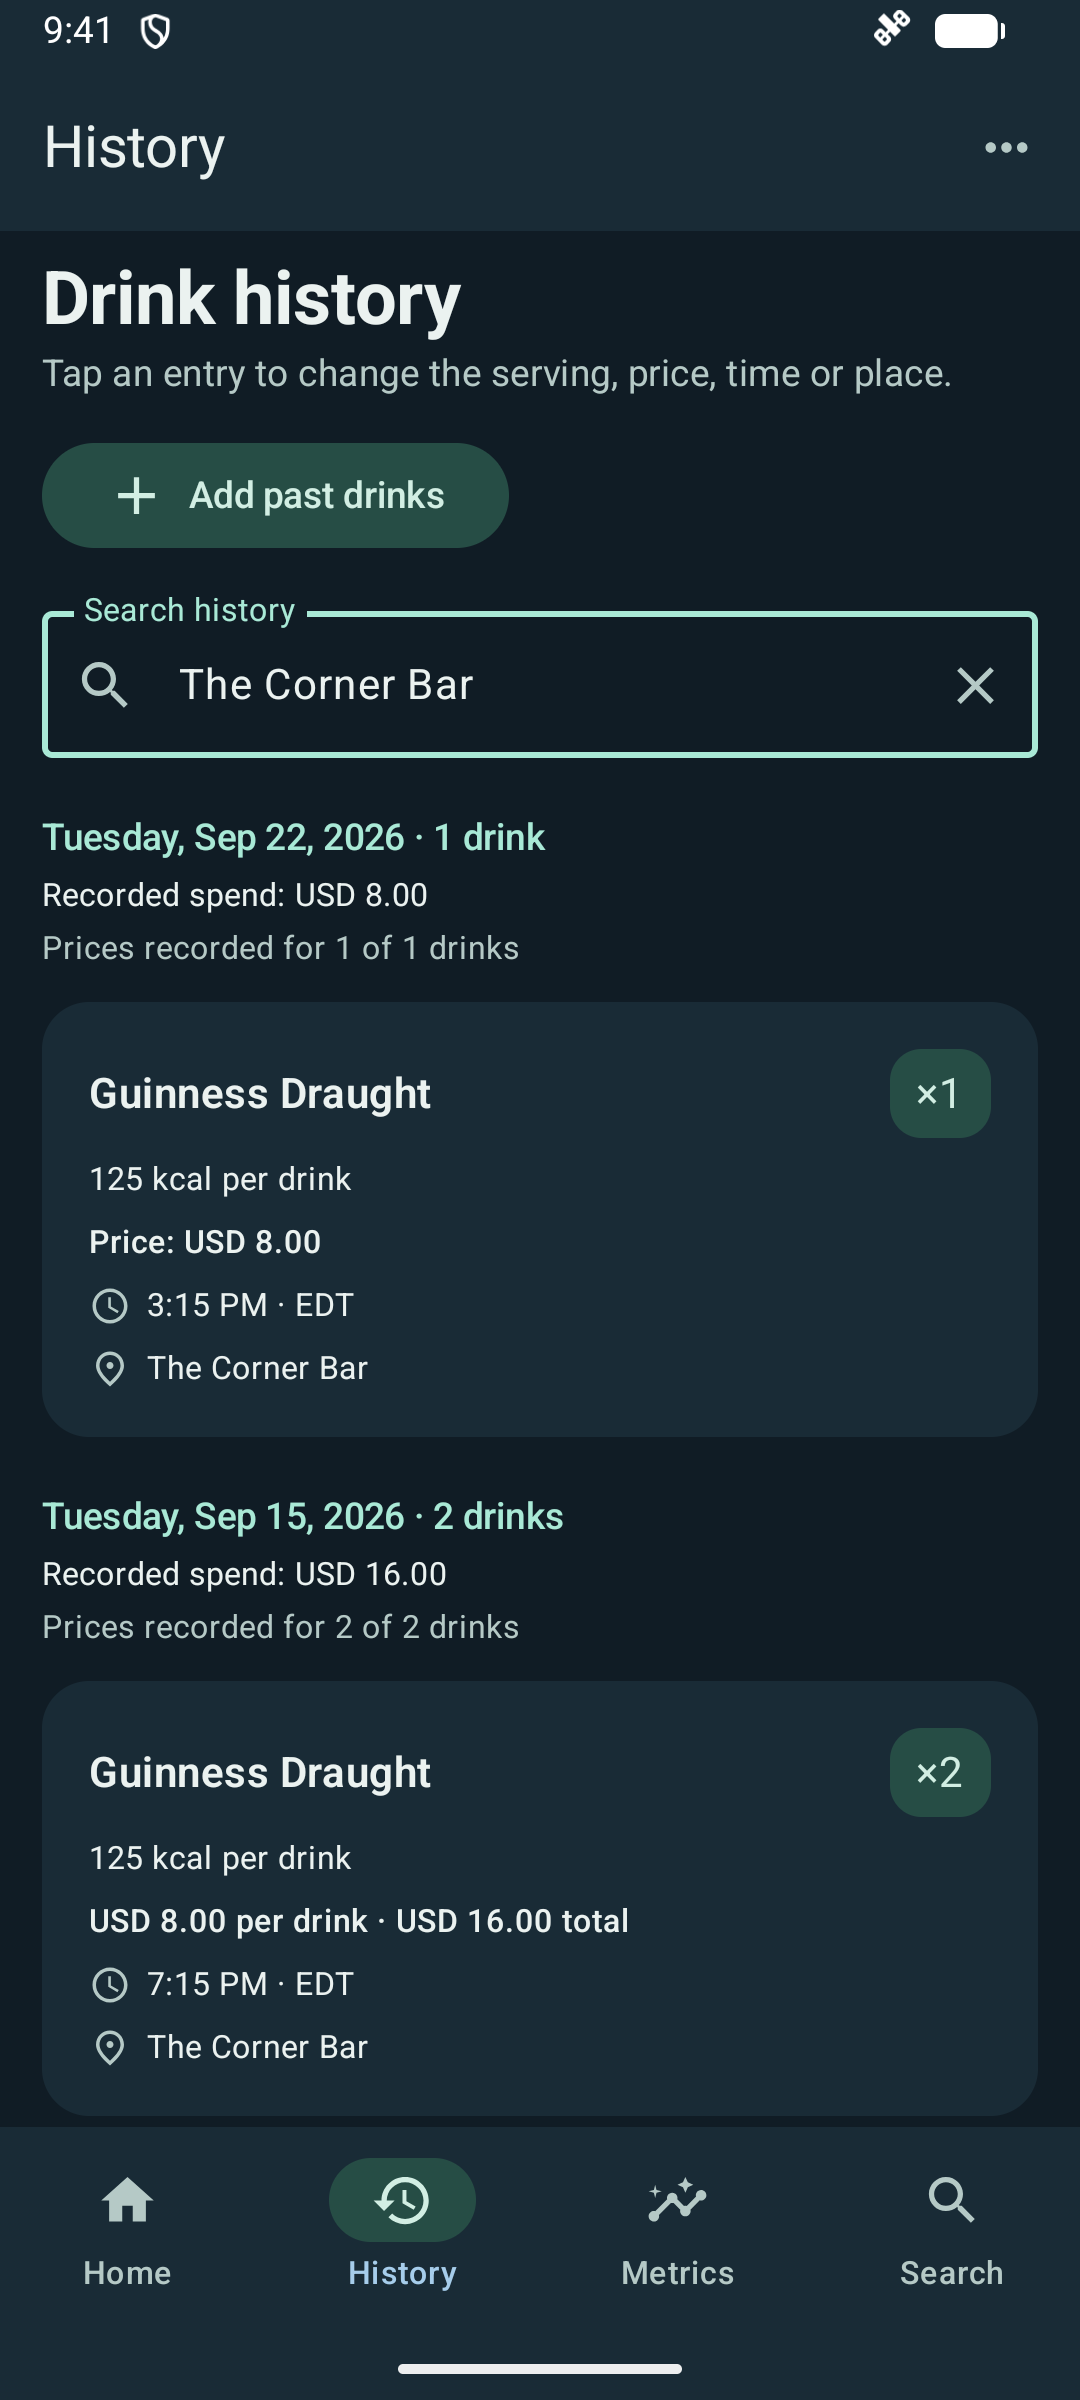
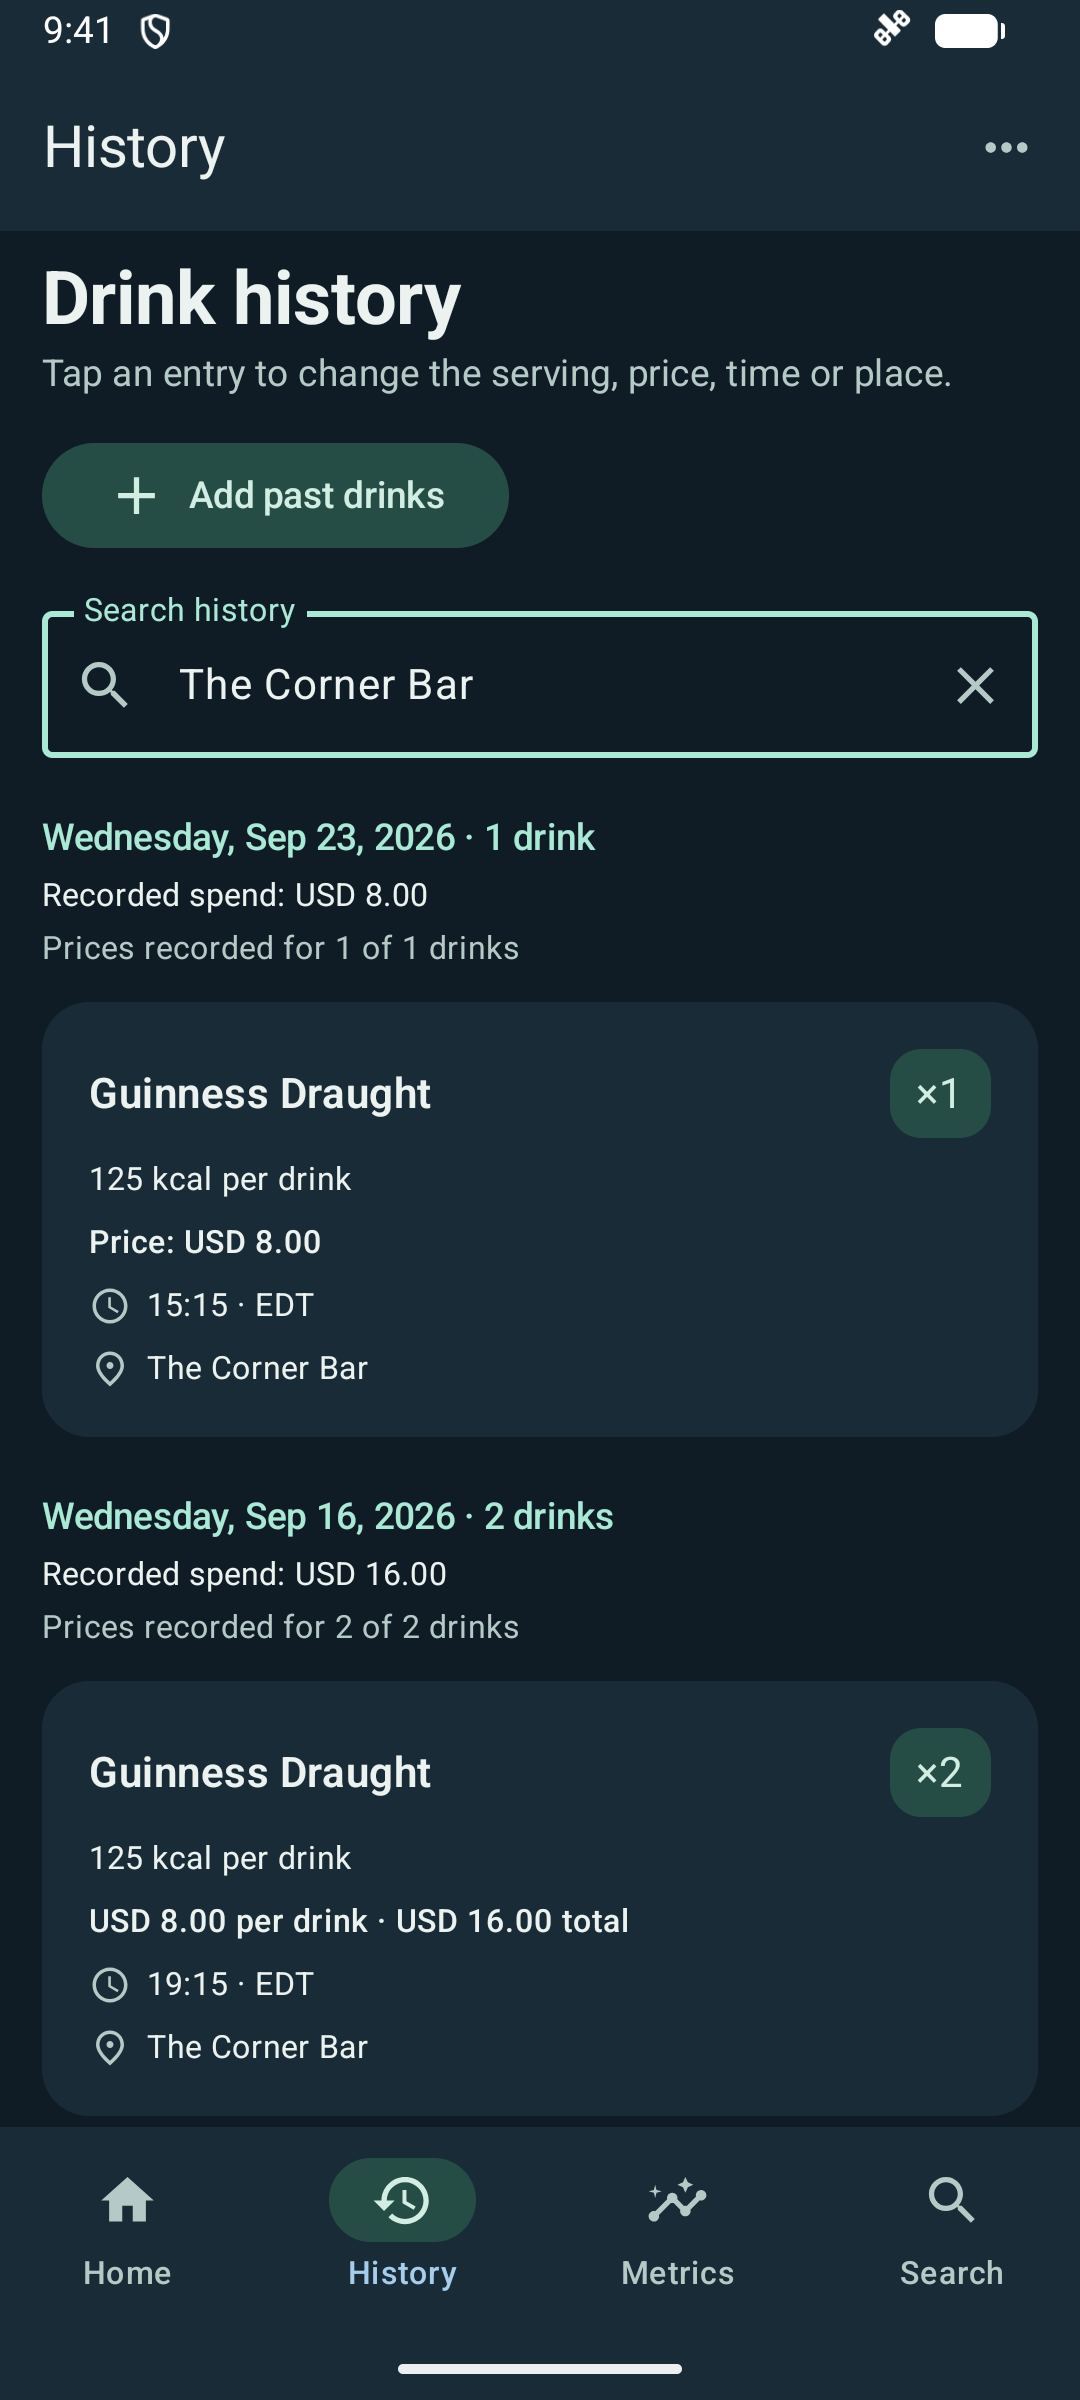
Refresh website copy and screenshots for latest logging updates

diff --git a/src/App.tsx b/src/App.tsx
@@ -456,7 +456,7 @@ function HomePage() {
               icon: "glass" as const,
               number: "01",
               title: "Log a drink in seconds.",
-              text: "Save your usual serving, pub, and prices. Choose the pour and price that apply, then tap +1 for each drink.",
+              text: "Save your usual serving, place, and prices. Log one or several drinks now or earlier, or use +1 now for a quick entry.",
               link: "/app/#favorites",
               label: "See drink logging",
             },
@@ -580,24 +580,24 @@ const appViews = [
     label: "Your favorites",
     image: "01-home.png",
     title: "Your regular drink. The right price.",
-    text: "Filter favorites by saved place, choose a serving and saved price on Home, then tap +1. Each drink uses the place saved with that favorite.",
-    alt: "Favorites filtered by pub with a serving selector, selected Happy hour price, and quick logging.",
+    text: "Filter favorites by saved place and choose a serving and price. Tap Log drink to set the quantity and time, or +1 now for an immediate entry. Each log starts with the favorite’s saved place.",
+    alt: "Favorites filtered by place with serving and price selectors, Log drink, and +1 now actions.",
   },
   {
     id: "search",
     label: "Find a drink",
     image: "02-search.png",
     title: "Find a drink or add your own.",
-    text: "Search 8,200+ catalog entries, including American craft beers, common drinks, generic styles, and house cocktail recipes. ABV and calories are shown where known; missing values stay marked.",
+    text: "Search 8,200+ drinks, including craft beer, hard seltzers, canned cocktails, and common styles and recipes. Find High Noon, Two Robbers, Suntory -196, Surfside, and Stateside. ABV and calories are shown where known; missing values stay marked.",
     alt: "Offline drink catalog with common beers and available serving and nutrition details.",
   },
   {
     id: "serving",
     label: "Log several drinks",
     image: "03-serving.png",
-    title: "Choose the pour. Set the quantity.",
-    text: "Log one drink or several from Search. Choose the serving and quantity, with an optional price and saved place. Nutrition and price are per drink, so you can check the details before adding them.",
-    alt: "Search logging dialog with three drinks, a selected serving, nutrition per drink, optional price and The Corner Bar, and a Log 3 drinks button.",
+    title: "Choose the pour, quantity, and time.",
+    text: "In Search or Favorites, tap Log drink and choose how many. Keep Now or choose an earlier date and time. Add an optional price and place for this entry; nutrition and price remain per drink.",
+    alt: "Search logging dialog with three drinks, Now and custom date/time options, serving controls, and a Log 3 drinks button.",
   },
   {
     id: "spending",
@@ -612,8 +612,8 @@ const appViews = [
     label: "Drink history",
     image: "04-history.png",
     title: "Add or edit past drinks.",
-    text: "Add past drinks from your favorites or search the catalog, including your custom drinks. Set the quantity, serving, date, time, price, and place. Times display in your current local time zone.",
-    alt: "Drink history with serving details, recorded prices, and nutrition values.",
+    text: "Add past drinks from favorites or search the catalog, including your custom drinks. Set the quantity, serving, date, time, price, and place. Times use your phone’s local time zone and 12- or 24-hour clock setting.",
+    alt: "Drink history with drink counts, recorded prices, nutrition values, and local timestamps.",
   },
 ] as const;
 
@@ -745,11 +745,11 @@ const questions = [
   ],
   [
     "What if my drink is not in the catalog?",
-    "Choose Add custom drink on Search. Enter a serving, ABV, and calories when you know them, or leave those details unknown. Saving makes the drink searchable; choose a serving to log it, or use Add to favorites separately. The built-in catalog is separate from your custom drinks, favorites, and history. App updates can add or correct catalog entries without rewriting what you previously logged.",
+    "Choose Add custom drink on Search. Enter a serving, ABV, and calories when you know them, or leave those details unknown. Saving makes the drink searchable; choose Log drink to record it, or use Add to favorites separately. The built-in catalog is separate from your custom drinks, favorites, and history. App updates can add or correct catalog entries without rewriting what you previously logged.",
   ],
   [
     "Can I save different prices for the same drink?",
-    "Yes. Add any named prices to a favorite: Regular, Happy hour, Game day, or your own labels. Enter the final amount for each option, then select the one that applies on Home. That choice is reused for repeat +1 taps. Prices do not switch automatically with times or game schedules, and discounts do not stack automatically. A widget uses the favorite's saved serving, default price, and place.",
+    "Yes. Add any named prices to a favorite: Regular, Happy hour, Game day, or your own labels. Enter the final amount for each option, then select the one that applies on Home. That choice is reused for repeat +1 now taps. Prices do not switch automatically with times or game schedules, and discounts do not stack automatically. A widget uses the favorite's saved serving, default price, and place.",
   ],
   [
     "Can I keep different favorites for different pubs?",
@@ -757,11 +757,11 @@ const questions = [
   ],
   [
     "Can I log drinks from last night?",
-    "Yes. Open History and choose Add past drinks. Favorites appear first for quick selection, or search the full catalog and your custom drinks. Enter the number of drinks, serving, date, time, and optional price, place, or notes. For example, record four of the same draft from last night in one entry. History displays dates and times in your current device time zone.",
+    "Yes. In Search or Favorites, tap Log drink, set the number of drinks, and choose an earlier date and time instead of Now. History also offers Add past drinks, with favorites first and catalog or custom drinks available through search. For example, record four of the same draft from last night in one entry. Times use your phone’s local time zone and 12- or 24-hour clock setting.",
   ],
   [
     "Can I log several of the same drink at once?",
-    "Yes. Find a drink in Search, choose its serving, and set the quantity with the plus and minus controls or quantity field. The log button shows how many drinks will be added. Calories, alcohol, and spending use that quantity. History also supports quantities for past visits.",
+    "Yes. Tap Log drink in Search or Favorites, then use the plus and minus controls or type a quantity. Keep Now or choose an earlier date and time. The log button shows how many drinks will be added. Calories, alcohol, and spending use that quantity. Favorites also offers +1 now for immediate logging, and History supports quantities for past visits.",
   ],
   [
     "Can I back up my history or move it to another phone?",
@@ -813,7 +813,7 @@ function AppPage() {
           {[
             [
               "Find your drink",
-              "Search 8,200+ catalog entries or create a custom drink. Log it now, save a favorite for next time, or add a past entry from History.",
+              "Search 8,200+ catalog entries or create a custom drink. Save a favorite to reuse its serving, place, and prices next time.",
             ],
             [
               "Set serving and price",
@@ -821,7 +821,7 @@ function AppPage() {
             ],
             [
               "Save the entry",
-              "Log one drink or set a quantity from Search. For a past visit, choose the quantity, date, and time in History. Edit missing details later.",
+              "Tap Log drink in Search or Favorites. Set the quantity, keep Now or choose an earlier date and time, then save. History also offers Add past drinks.",
             ],
           ].map(([title, text], index) => (
             <article key={title}>
@@ -846,10 +846,11 @@ function AppPage() {
             amount.
           </p>
           <p>
-            Choose a serving and price on Home, then tap +1 for each drink.
-            Switch between a 12 and 16 US fl oz pour without editing your
-            favorite. Filter Home by saved place to find your drinks there. Past
-            entries keep the details you actually logged.
+            Choose a serving and price on Home. Tap Log drink to change the
+            quantity and time, or +1 now to log immediately. Switch between a 12
+            and 16 US fl oz pour without editing your favorite. Filter Home by
+            saved place to find your drinks there. Past entries keep the details
+            you actually logged.
           </p>
           <a className="text-link" href="#preview">
             See saved favorites <Icon name="arrow" size={18} />
@@ -1208,7 +1209,8 @@ function InsightsPage() {
           Start your week on Sunday or Monday. Calendar days, weeks, and months
           follow your device’s local time zone. The 7-, 30-, and 90-day views
           include today and the preceding calendar dates; counter widgets also
-          offer rolling periods, such as the last 24 hours.
+          offer rolling periods, such as the last 24 hours. Time labels follow
+          your phone’s 12- or 24-hour clock setting.
         </p>
         <div className="insight-grid">
           {[

diff --git a/src/routes.ts b/src/routes.ts
@@ -11,7 +11,7 @@ export const pages = [
     path: "/app/",
     title: "Meet the app — BarTally",
     description:
-      "Search 8,200+ drinks offline. Save servings, places, and prices. Log multiple drinks, track spending, use widgets, and back up your history to JSON.",
+      "Search 8,200+ drinks offline. Save servings, places, and prices. Log one or several drinks now or earlier, track spending, use widgets, and export JSON backups.",
   },
   {
     id: "insights",

diff --git a/README.md b/README.md
@@ -10,9 +10,9 @@ The app’s Backup & restore screen exports portable JSON through Android’s fi
 
 ## Local development
 
-The app overview also explains favorites with saved servings, places, and arbitrary named prices. Users select an exact amount manually; there are no automatic happy-hour schedules or stacked discounts. Home repeats the selected price and place, while widgets use the saved default. The built-in catalog contains 8,200+ entries and remains separate from custom drinks and recorded history. ABV and calories are not available for every entry. The privacy policy includes saved favorite details and their possible display on widgets, UTC timestamp storage, and local calendar calculations. History can backfill drinks from favorites, the catalog, or custom drinks with quantity, serving, local date/time, optional price, place, and notes. Creating a custom drink only adds its searchable definition; logging and favoriting are separate actions.
+The app overview also explains favorites with saved servings, places, and arbitrary named prices. Users select an exact amount manually; there are no automatic happy-hour schedules or stacked discounts. Home repeats the selected price and place. In Search and Favorites, **Log drink** opens quantity and time controls: one drink and **Now** are the defaults, with an earlier local date and time available. Favorites also offers **+1 now** for immediate logging. Logging overrides do not edit the saved favorite; widgets use its saved defaults. The built-in catalog contains 8,200+ entries, including the expanded High Noon, Two Robbers, Suntory -196, Surfside, and Stateside listings, and remains separate from custom drinks and recorded history. ABV and calories are not available for every entry. The privacy policy includes saved favorite details and their possible display on widgets, UTC timestamp storage, and local calendar calculations. History can backfill drinks from favorites, the catalog, or custom drinks with quantity, serving, local date/time, optional price, place, and notes. Creating a custom drink only adds its searchable definition; logging and favoriting are separate actions.
 
-Metrics includes Today, This week, This month, 7 days, 30 days, 90 days, and All time, with Sunday or Monday week starts. Counter widgets offer Today, This week, This month, Last 24 hours, Last 7 days, and Last 30 days; each counter has its own settings. The quick-log widget accepts rapid +1 taps, shows Added 1 / Added 2 inline for three seconds, and offers a five-second Undo. It no longer displays system toasts or requests notification permission. Alcohol totals default to grams, with milliliters of pure alcohol and US standard drinks available in Units. The widget artwork on the site is labeled as illustrative, and uses compact examples of both widget types. The interactive insights chart remains a clearly labeled subset of example periods.
+Metrics includes Today, This week, This month, 7 days, 30 days, 90 days, and All time, with Sunday or Monday week starts. Counter widgets offer Today, This week, This month, Last 24 hours, Last 7 days, and Last 30 days; each counter has its own settings. The quick-log widget accepts rapid +1 taps, shows Added 1 / Added 2 inline for three seconds, and offers a five-second Undo. It no longer displays system toasts or requests notification permission. Alcohol totals default to grams, with milliliters of pure alcohol and US standard drinks available in Units. The widget artwork on the site is labeled as illustrative, and uses compact examples of both widget types. App time labels and pickers follow the phone’s 12- or 24-hour clock setting; US and metric screenshots demonstrate independently selected clock settings. The interactive insights chart remains a clearly labeled subset of example periods.
 
 Use Node.js 24 LTS (Node 22.12 or later is also supported).
 
